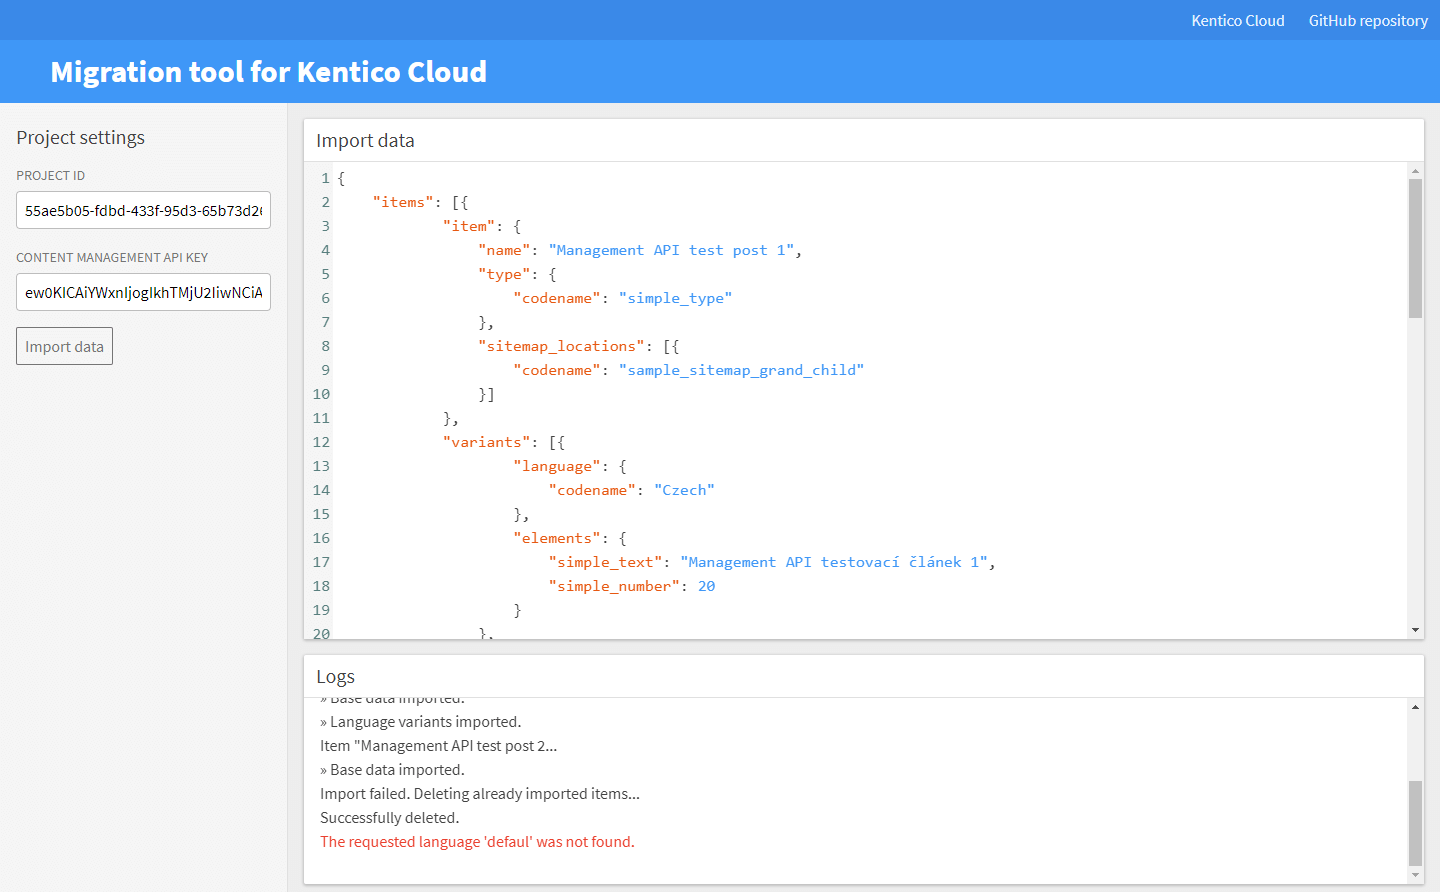
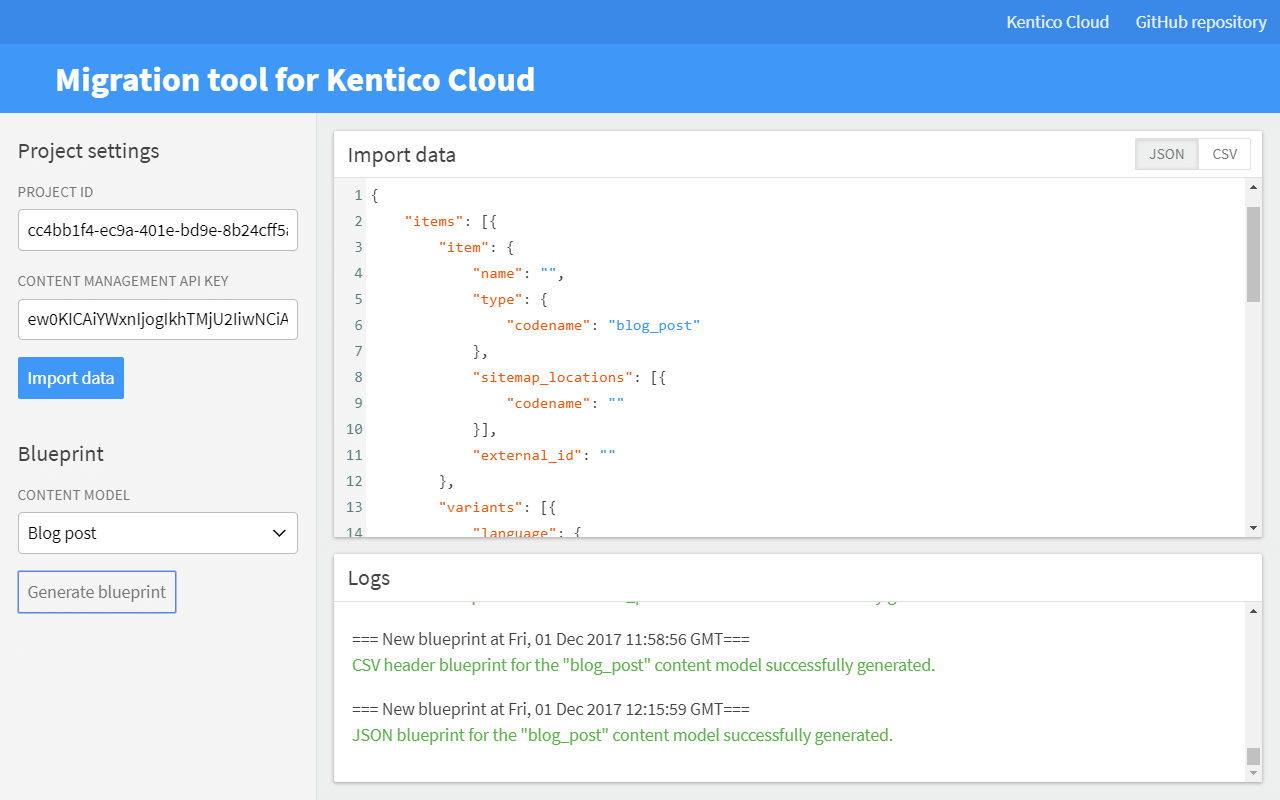
Docs for CSV

diff --git a/README.md b/README.md
@@ -2,17 +2,13 @@
 
 Purpose of this tool is to migrate data from various sources to Kentico Cloud. More specifically, the goal is to make bulk import of data possible with Kentico Cloud. At this stage the tool is capable to:
 
-- Accept POST requests via endpoint.
-- Accept migration data in the JSON format in the body of the request.
-- Validate structure and data types of the migration data.
-- Import migration data in a Kentico Cloud project.
-- Delete migrated data from a Kentico Cloud project in case the import process failed.
-- Import data in GUI.
-- Possibility to generate blueprints for import data.
+- Import data with use of GUI or endpoints interface.
+- Import data in JSON or CSV formats with a predefined structure.
+- Generate blueprints for JSON or CSV formats to make it easier to compose the correct structure of import data.
 
 Planned features are:
 
-- Support for CSV format as import data.
+- No planned features. Waiting for your feedback.
 
 
 ## Usage
@@ -38,22 +34,25 @@ https://migration-tool-kentico-cloud.herokuapp.com/
 ```sh
 npm install
 ```
+Run the server
+```sh
+npm start
+```
 Then the GUI is available on the following address:
 ```sh
 http://localhost:5000/
 ```
 
-### Making requests
+### Importing data
 
 ![Image of the GUI](https://raw.githubusercontent.com/MilanLund/migration-tool/master/ui/assets/img/migrationtool.png)
 
-There are 3 main areas in the GUI:
+To import data successfully you need to fill in following fields in the GUI:
 
-- **Project settings** -  Required fields for Project ID and Content Management ID.
-- **Import data** - Required field which should contain import data in with the [following structure](#structure-of-the-request-body).
-- **Logs** - Here you get information about an ongoing import.
+- **Project settings** -  Required fields for Project ID and Content Management ID. (Tip: You can obtain these values in the **API keys** page in the Kentico Cloud administration interface of your project).
+- **Import data** - Required field which should contain import data of the [following structure](#structure-of-the-request-body). Could be in JSON or CSV format. You can generate a [blueprint](#blueprints-in-gui) to help you structure the import data.
 
-To make the import process start you need to fill in all required fields and hit the **Import data** button in the  **Project settings** area.
+When you hit the **Import data** button you can see information about the ongoing import process. When the import process gets finished the response appears in the **Import data** field.
 
 ## Endpoint interface
 
@@ -69,12 +68,16 @@ https://migration-tool-kentico-cloud.herokuapp.com/<YOUR_PROJECT_ID>
 ```sh
 npm install
 ```
+Run the server
+```sh
+npm start
+```
 Then the endpoint is available on the following address:
 ```sh
 http://localhost:5000/<YOUR_PROJECT_ID>
 ```
 
-### Making requests
+### Importing data
 
 The best way how to access the endpoint is using [Postman](https://www.getpostman.com/apps). The endpoint accepts requests with the following attributes: 
 
@@ -87,33 +90,36 @@ http://localhost:5000/<YOUR_PROJECT_ID>
 ```sh
 Authorization: Bearer <YOUR_API_KEY>
 ```
-- The request body must be a JSON object with a predefined structure and the relevant Content type header:
+-  Content type header:
 ```sh
 Content-type: application/json
 ```
+or
+```sh
+Content-type: text/csv
+```
+- The request body must be of JSON or CSV format with [predefined structure](#structure-of-the-request-body). You can generate a [blueprint](#blueprints-using-the-endpoint) to help you structure the import data.
 
-## Structure of the request body
+## Blueprints
 
-### Blueprints
-
-To be able to import data sucessfully to Kentico Cloud you need to provide the data in a specific format. To help you compose the data structure correctly you can generate a blueprint. The blueprint is a scaffolding for your import data for a selected content model. There are 2 ways how to generate the blueprint:
+To be able to import data sucessfully to Kentico Cloud you need to provide the data in a [specific format](#structure-of-the-request-body). To help you compose the data structure correctly you can generate a blueprint. The blueprint is a scaffolding for your import data for a selected content model. There are 2 ways how to generate the blueprint:
 
 - [In GUI](#blueprints-in-gui)
 - [Using an endpoint](#blueprints-using-endpoint)
 
-#### Blueprints in GUI
+### Blueprints in GUI
 
 To generate a blueprint in GUI you need to:
 
 1. Fill in a valid Project ID.
 2. Select a content model.
-3. Hit the "Generate blueprint" button.
-4. The blueprint appears in the code editor.
+3. Select JSON or CSV format.
+4. Hit the "Generate blueprint" button.
+5. The blueprint appears in the code editor.
 
 ![Generate blueprints in GUI](https://raw.githubusercontent.com/MilanLund/migration-tool/master/ui/assets/img/blueprint.png)
 
-
-#### Blueprints using the endpoint
+### Blueprints using the endpoint
 
 The best way how to access the endpoint is using [Postman](https://www.getpostman.com/apps). To generate a blueprint the request must have the following attributes: 
 
@@ -121,18 +127,23 @@ The best way how to access the endpoint is using [Postman](https://www.getpostma
 ```sh
 http://localhost:5000/<YOUR_PROJECT_ID>/blueprint/<FORMAT>/<CONTENT_MODEL_CODENAME>
 ```
-- Supported format is currently only **json**.
+- Supported formats are **json** and **csv**.
 - The request must be GET.
 
-#### Working with the blueprint
+### Working with the blueprint
 
 To import your data sucessfully you need to fill in your data in the blueprint. See the example with a description of how the data should be filled in for supported import data formats:
 
 - [JSON](#json-structure)
+- [CSV](#csv-structure)
+
+## Structure of the request body
+
+To be able to import data sucessfully to Kentico Cloud you need to follow the predefined JSON or CSV structure and fit your data in the structure.
 
 ### JSON structure
 
-To be able to import JSON data sucessfully to Kentico Cloud you need to follow the predefined structure of the JSON object and fit your data in the structure. Example: 
+Example: 
 ```json
 {
     "items": [{
@@ -143,6 +154,8 @@ To be able to import JSON data sucessfully to Kentico Cloud you need to follow t
             },
             "sitemap_locations": [{
                 "codename": "sample_sitemap_grand_child"
+            },{
+                "codename": "sample_sitemap_child"
             }],
             "external_id": "42"
         },
@@ -179,35 +192,64 @@ To be able to import JSON data sucessfully to Kentico Cloud you need to follow t
     - The `variants` property stores specific data for each language variant in the project. Each language variant is represented by an array item. Array and is required.
         - The `language.codename` property represents codename of a language variant to which the data should be assigned. The codename must fit one language variant in your Kentico Cloud project. String and is required.
         - The `elements` property represents data that should get imported in the Kentico Cloud project. Object and is required.
-            - Child properties of the `elements` object represent content elements of the content model specified in the `item.type.codename` property. Key of each property represents codename of a content element in the content model. Value of the property is your data you attempt to import. Make sure the values are of a correct data type relevant to mapped content element type. 
+            - Child properties of the `elements` object represent content elements of the content model specified in the `item.type.codename` property. Key of each property represents codename of a content element in the content model. Value of the property is your data you attempt to import. Make sure the values are of a correct data type relevant to mapped content element type.
+
+**Tip**: Values for `codename` properties could be obtained in the Kentico Cloud administration interface under the **{#}** icon:
+- `type` codename in the **Content models** > **Content types** > **specific type** page. 
+- `sitemap_locations` codenames in the **Sitemap** page.
+- `language` codenames in the **Project** > **Localization** page.
+
+![Codename](https://raw.githubusercontent.com/MilanLund/migration-tool/master/ui/assets/img/codename.png)
             
 #### Content element types
 
 The `elements` property maps your data to content elements of the chosen content model in the `item.type.codename` property. Each content element accepts a different data type:
 
 - Data type **String** is accepted by the **Text, Rich text, Url slug** content elements.
-- Data type **Number** is accepted by the **Number content** element.
-- Data type **Array** is accepted by the **Multiple choice, Modular content, Taxonomy** content elements.
+- Data type **Number** is accepted by the **Number** content element.
+- Data type **Array** is accepted by the **Multiple choice, Modular content, Taxonomy, Asset** content elements.
 - Data type **String in the datetime format** ("2017-11-16T11:19:57.3768443Z") is accepted by the **Date & time** content element.
 
-To fully understand the sturucture of properies in the `elements` property (especially when it comes content elements that accept Array values) I recommend you to check the [Kentico Cloud documentation](https://developer.kenticocloud.com/reference#list-content-items) Try to make several list requests with use of the Delivery and Content Management APIs and see their responses.
+To fully understand the sturucture of properies in the `elements` property (especially when it comes to content elements that accept Array values) I recommend you to check the [Kentico Cloud documentation](https://developer.kenticocloud.com/reference#list-content-items) Try to make several list requests with use of the Delivery and Content Management APIs and see their responses.
 
-**Please note**, uploading **Binary files** and adding  **Assests** are not supported features in this tool.
+**Please note**, uploading **Binary files** and adding **Assests** to the Asset libabry are not supported features in the tool.
+
+### CSV structure
+
+Example: 
+```csv
+name,type,sitemap_locations/codename,external_id,czech/simple_text,czech/simple_number,default/simple_text,default/simple_number
+Management API test post 1,simple_type,sample_sitemap_grand_child|sample_sitemap_grand_child,42,Management API testovací článek 1,20,Management API test post 1,10
+```
+Columns delimiter could be **,** or **;**.
+Column values delimiter is **|**.
+
+When structuring import data in CSV you need to follow these rules:
+- First line is header that defines structure of imported items. Other lines are imported items.
+- **name** represents name of the content item. Required.
+- **type** represents codename of a content model and must fit one of the content models specified in your Kentico Cloud project. Required.
+- **sitemap_locations/codename** represents codenames of sitemap locations to which the content item should be assigned. The codenames must fit the ones that are specified in your Kentico Cloud project. Could consist of multiple values separated by the **|** character. Optional.
+- **external_id** represents your custom identifier for the content item. The property is designed to be used when you are migrating data from other systems where the data items already have an indentifier assigned. Optional.
+- Another columns stand for specific data for each language variant in the project. They could have one of the following formats depending on content element they represent:
+    - **Text, Rich text, Url slug, Number, Date & time** content elements should have header in format **<language_codename>/<content_model_codename>**.
+    - **Multiple choice, Modular content, Taxonomy** content elements should have header in format **<language_codename>/<content_model_codename>/codename**. Could consist of multiple values separated by the **|** character.
+    - **Asset** content element should have header in format **<language_codename>/<content_model_codename>/id**. Could consist of multiple values separated by the **|** character.
 
 ## Under the hood
 
 Below you can find a brief description of what the tool does under the hood:
 
-1. Checks whether the request body is not empty.
-2. Makes a request with use of the Content Management API to get project items. By this request the tool checks whether the provided Project ID and Content Management API key are valid.
-3. Makes a request with use of the Delivery API to get content models and their content elements.
-4. Validates whether the JSON object obtatined in the request body fits the required structure.
-5. Validates whether the JSON object obtatined in the request body fits the content models and their elements. 
+1. Checks content type of the request body. If is CSV it is translated in JSON.
+2. Checks whether the request body is not empty.
+3. Makes a request with use of the Content Management API to get project items. By this request the tool checks whether the provided Project ID and Content Management API key are valid.
+4. Makes a request with use of the Delivery API to get content models and their content elements.
+5. Validates whether the JSON object obtatined in the request body fits the required structure.
+6. Validates whether the JSON object obtatined in the request body fits the content models and their elements.
     - Validates existence of referenced content models.
     - Validates existence and data types of properties in the `elements` property.
-6. If the previous steps are sucessfull the tool is ready to import the data. Please note that before the import process the tool checks existence only of content types and their content elements. It does not check existence of other referenced information i.e. language variants, taxonomy groups, sitemap locations. This will be probably checked during the import process.
-7. Imports data in the Kentico Cloud project. In case language variants, taxonomy groups, sitemap locations or other imported information do not exist in the Kentico Cloud project, the import process will fail and content items imported during the process get deleted. 
-8. The whole process finishes in one of the following states:
+7. If the previous steps are sucessfull the tool is ready to import the data. Please note that before the import process the tool checks existence only of content types and their content elements. It does not check existence of other referenced information i.e. language variants, taxonomy groups, sitemap locations. This will be probably checked during the import process.
+8. Imports data in the Kentico Cloud project. In case language variants, taxonomy groups, sitemap locations or other imported information do not exist in the Kentico Cloud project, the import process will fail and content items imported during the process get deleted. 
+9. The whole process finishes in one of the following states:
 	- Data are sucessfully imported. Array of objects with id and codename of imported content items is sent in the response in the JSON format.
 	- The process fails. Response with a relevant message is sent in the response.
 
